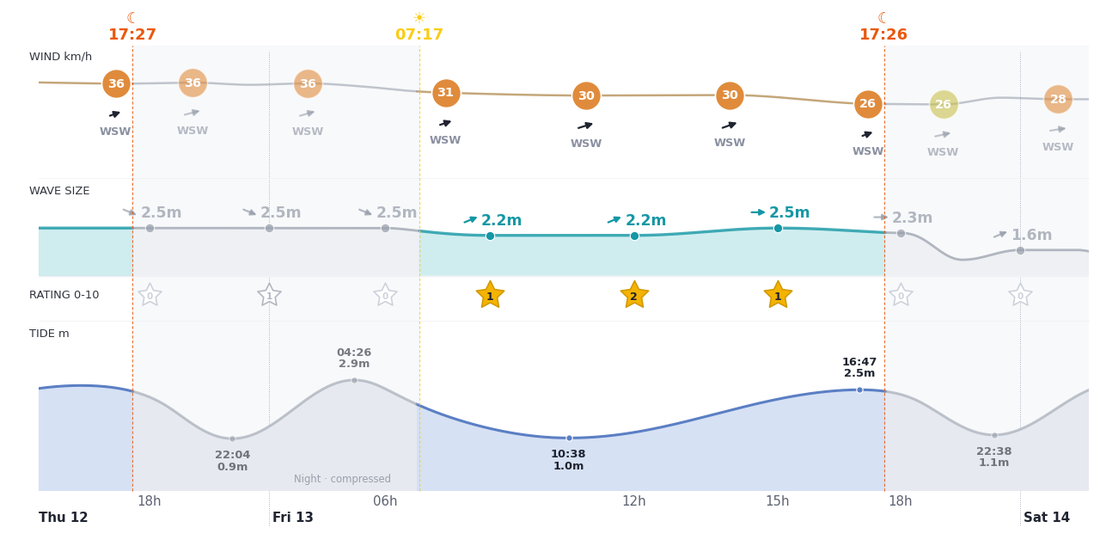
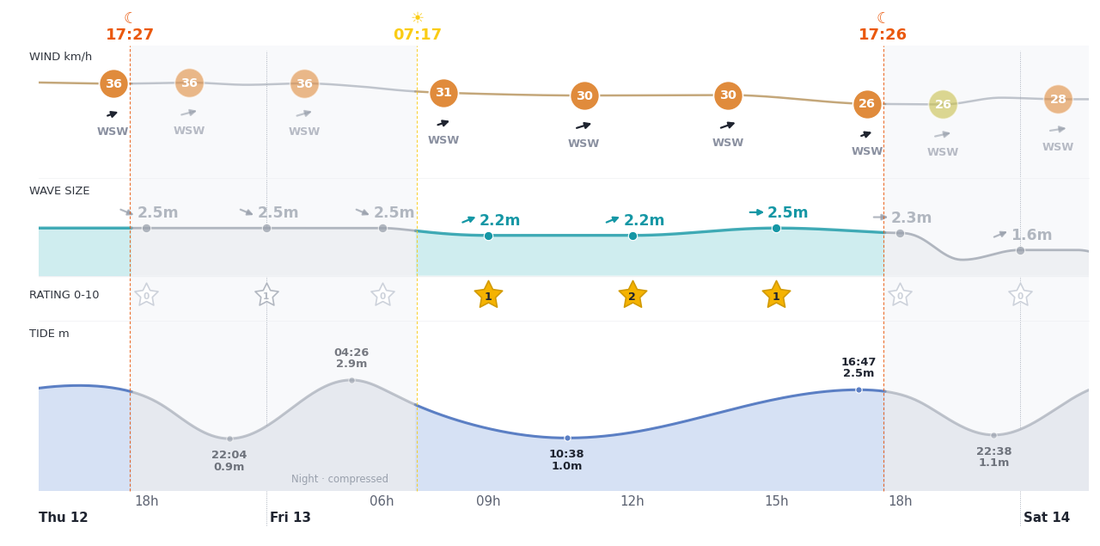
erisurf: run 381

diff --git a/index.html b/index.html
@@ -534,7 +534,7 @@ function draw(){var n=Date.now();cards(n);if(r.open)tide(n)}
 draw();setInterval(draw,60e3);r.addEventListener('toggle',draw);
 document.addEventListener('visibilitychange',function(){if(!document.hidden)draw()});
 if(window.ResizeObserver)new ResizeObserver(function(){if(r.open)draw()}).observe(o);
-})();</script><h2 class="livehd" id="conditions">Wind, tide &amp; surf forecast <span class="plan-fc">· Next 36h</span></h2><figure id="pic-conditions" class="c36"><div class="livechart" data-geo="{&quot;t0&quot;: 1794496633, &quot;t1&quot;: 1794627360, &quot;report&quot;: 1794502393, &quot;left&quot;: 0.035, &quot;right&quot;: 0.99, &quot;top&quot;: 0.085, &quot;bottom&quot;: 0.8993, &quot;suns&quot;: [1794504456, 1794554259, 1794590805], &quot;sunk&quot;: [&quot;set&quot;, &quot;rise&quot;, &quot;set&quot;], &quot;warp&quot;: [[1794496633, 0.0], [1794496633, 0.0], [1794497533, 0.01139], [1794498433, 0.0227], [1794499333, 0.03385], [1794500233, 0.04474], [1794501133, 0.05528], [1794502033, 0.06535], [1794502933, 0.07487], [1794503833, 0.08376], [1794504733, 0.09197], [1794505633, 0.09951], [1794506533, 0.10639], [1794507433, 0.11266], [1794508333, 0.1184], [1794509233, 0.12372], [1794510133, 0.12871], [1794511033, 0.13347], [1794511933, 0.13811], [1794512833, 0.14269], [1794513733, 0.14726], [1794514633, 0.15183], [1794515533, 0.15639], [1794516433, 0.16096], [1794517333, 0.16553], [1794518233, 0.17009], [1794519133, 0.17466], [1794520033, 0.17922], [1794520933, 0.18379], [1794521833, 0.18836], [1794522733, 0.19292], [1794523633, 0.19749], [1794524533, 0.20205], [1794525433, 0.20662], [1794526333, 0.21119], [1794527233, 0.21575], [1794528133, 0.22032], [1794529033, 0.22489], [1794529933, 0.22945], [1794530833, 0.23402], [1794531733, 0.23858], [1794532633, 0.24315], [1794533533, 0.24772], [1794534433, 0.25228], [1794535333, 0.25685], [1794536233, 0.26141], [1794537133, 0.26598], [1794538033, 0.27055], [1794538933, 0.27511], [1794539833, 0.27968], [1794540733, 0.28425], [1794541633, 0.28881], [1794542533, 0.29338], [1794543433, 0.29794], [1794544333, 0.30251], [1794545233, 0.30708], [1794546133, 0.31164], [1794547033, 0.31622], [1794547933, 0.32086], [1794548833, 0.32563], [1794549733, 0.33062], [1794550633, 0.33593], [1794551533, 0.34168], [1794552433, 0.34795], [1794553333, 0.35483], [1794554233, 0.36236], [1794555133, 0.37058], [1794556033, 0.37947], [1794556933, 0.38899], [1794557833, 0.39906], [1794558733, 0.40959], [1794559633, 0.42049], [1794560533, 0.43164], [1794561433, 0.44295], [1794562333, 0.45434], [1794563233, 0.46575], [1794564133, 0.47717], [1794565033, 0.48858], [1794565933, 0.5], [1794566833, 0.51141], [1794567733, 0.52283], [1794568633, 0.53424], [1794569533, 0.54566], [1794570433, 0.55707], [1794571333, 0.56849], [1794572233, 0.5799], [1794573133, 0.59132], [1794574033, 0.60273], [1794574933, 0.61415], [1794575833, 0.62557], [1794576733, 0.63698], [1794577633, 0.6484], [1794578533, 0.65981], [1794579433, 0.67123], [1794580333, 0.68264], [1794581233, 0.69406], [1794582133, 0.70547], [1794583033, 0.71688], [1794583933, 0.72825], [1794584833, 0.73952], [1794585733, 0.75059], [1794586633, 0.76138], [1794587533, 0.77177], [1794588433, 0.78167], [1794589333, 0.79098], [1794590233, 0.79965], [1794591133, 0.80764], [1794592033, 0.81496], [1794592933, 0.82162], [1794593833, 0.82771], [1794594733, 0.8333], [1794595633, 0.83849], [1794596533, 0.8434], [1794597433, 0.84811], [1794598333, 0.85272], [1794599233, 0.8573], [1794600133, 0.86186], [1794601033, 0.86643], [1794601933, 0.871], [1794602833, 0.87556], [1794603733, 0.88013], [1794604633, 0.88469], [1794605533, 0.88926], [1794606433, 0.89383], [1794607333, 0.89839], [1794608233, 0.90296], [1794609133, 0.90753], [1794610033, 0.91209], [1794610933, 0.91666], [1794611833, 0.92122], [1794612733, 0.92579], [1794613633, 0.93036], [1794614533, 0.93492], [1794615433, 0.93949], [1794616333, 0.94405], [1794617233, 0.94862], [1794618133, 0.95319], [1794619033, 0.95775], [1794619933, 0.96232], [1794620833, 0.96689], [1794621733, 0.97145], [1794622633, 0.97602], [1794623533, 0.98058], [1794624433, 0.98515], [1794625333, 0.98972], [1794626233, 0.99428], [1794627133, 0.99885], [1794627360, 1.0]]}"><a href="img/381/conditions36.png" target="_blank" title="open full size"><img loading="lazy" src="img/381/conditions36.png" alt="wind, tide and forecast"></a><div class="nowline" hidden><span class="nowlbl"></span></div><script>(function(){
+})();</script><h2 class="livehd" id="conditions">Wind, tide &amp; surf forecast <span class="plan-fc">· Next 36h</span></h2><figure id="pic-conditions" class="c36"><div class="livechart" data-geo="{&quot;t0&quot;: 1794496799, &quot;t1&quot;: 1794627360, &quot;report&quot;: 1794502559, &quot;left&quot;: 0.035, &quot;right&quot;: 0.99, &quot;top&quot;: 0.085, &quot;bottom&quot;: 0.8993, &quot;suns&quot;: [1794504456, 1794554259, 1794590805], &quot;sunk&quot;: [&quot;set&quot;, &quot;rise&quot;, &quot;set&quot;], &quot;warp&quot;: [[1794496799, 0.0], [1794496799, 0.0], [1794497699, 0.01138], [1794498599, 0.02265], [1794499499, 0.03374], [1794500399, 0.04454], [1794501299, 0.05494], [1794502199, 0.06484], [1794503099, 0.07416], [1794503999, 0.08284], [1794504899, 0.09084], [1794505799, 0.09816], [1794506699, 0.10483], [1794507599, 0.11092], [1794508499, 0.11651], [1794509399, 0.12171], [1794510299, 0.12662], [1794511199, 0.13134], [1794512099, 0.13596], [1794512999, 0.14053], [1794513899, 0.1451], [1794514799, 0.14967], [1794515699, 0.15424], [1794516599, 0.15881], [1794517499, 0.16338], [1794518399, 0.16795], [1794519299, 0.17252], [1794520199, 0.17709], [1794521099, 0.18166], [1794521999, 0.18623], [1794522899, 0.1908], [1794523799, 0.19537], [1794524699, 0.19994], [1794525599, 0.20451], [1794526499, 0.20908], [1794527399, 0.21365], [1794528299, 0.21822], [1794529199, 0.22279], [1794530099, 0.22736], [1794530999, 0.23193], [1794531899, 0.2365], [1794532799, 0.24107], [1794533699, 0.24564], [1794534599, 0.25021], [1794535499, 0.25478], [1794536399, 0.25935], [1794537299, 0.26392], [1794538199, 0.26849], [1794539099, 0.27306], [1794539999, 0.27763], [1794540899, 0.2822], [1794541799, 0.28677], [1794542699, 0.29134], [1794543599, 0.29591], [1794544499, 0.30048], [1794545399, 0.30505], [1794546299, 0.30963], [1794547199, 0.31422], [1794548099, 0.3189], [1794548999, 0.32374], [1794549899, 0.32883], [1794550799, 0.33428], [1794551699, 0.34019], [1794552599, 0.34666], [1794553499, 0.35376], [1794554399, 0.36153], [1794555299, 0.36998], [1794556199, 0.37909], [1794557099, 0.38881], [1794557999, 0.39906], [1794558899, 0.40973], [1794559799, 0.42074], [1794560699, 0.43196], [1794561599, 0.44331], [1794562499, 0.45472], [1794563399, 0.46615], [1794564299, 0.47757], [1794565199, 0.489], [1794566099, 0.50042], [1794566999, 0.51184], [1794567899, 0.52327], [1794568799, 0.53469], [1794569699, 0.54612], [1794570599, 0.55754], [1794571499, 0.56897], [1794572399, 0.58039], [1794573299, 0.59182], [1794574199, 0.60324], [1794575099, 0.61467], [1794575999, 0.62609], [1794576899, 0.63752], [1794577799, 0.64894], [1794578699, 0.66037], [1794579599, 0.67179], [1794580499, 0.68322], [1794581399, 0.69464], [1794582299, 0.70607], [1794583199, 0.71749], [1794584099, 0.72886], [1794584999, 0.74014], [1794585899, 0.75123], [1794586799, 0.76202], [1794587699, 0.77243], [1794588599, 0.78233], [1794589499, 0.79165], [1794590399, 0.80033], [1794591299, 0.80832], [1794592199, 0.81564], [1794593099, 0.82232], [1794593999, 0.82841], [1794594899, 0.834], [1794595799, 0.8392], [1794596699, 0.84411], [1794597599, 0.84883], [1794598499, 0.85344], [1794599399, 0.85802], [1794600299, 0.86259], [1794601199, 0.86716], [1794602099, 0.87173], [1794602999, 0.8763], [1794603899, 0.88087], [1794604799, 0.88544], [1794605699, 0.89001], [1794606599, 0.89458], [1794607499, 0.89915], [1794608399, 0.90372], [1794609299, 0.90829], [1794610199, 0.91286], [1794611099, 0.91743], [1794611999, 0.922], [1794612899, 0.92657], [1794613799, 0.93114], [1794614699, 0.93571], [1794615599, 0.94028], [1794616499, 0.94485], [1794617399, 0.94942], [1794618299, 0.95399], [1794619199, 0.95856], [1794620099, 0.96313], [1794620999, 0.9677], [1794621899, 0.97227], [1794622799, 0.97684], [1794623699, 0.98141], [1794624599, 0.98598], [1794625499, 0.99055], [1794626399, 0.99512], [1794627299, 0.99969], [1794627360, 1.0]]}"><a href="img/381/conditions36.png" target="_blank" title="open full size"><img loading="lazy" src="img/381/conditions36.png" alt="wind, tide and forecast"></a><div class="nowline" hidden><span class="nowlbl"></span></div><script>(function(){
 var box=document.currentScript.parentNode,g=JSON.parse(box.dataset.geo),
 line=box.querySelector('.nowline'),lbl=line.firstChild;
 // time -> fraction of the plot width; piecewise when the night is squeezed
@@ -573,7 +573,7 @@ function place(){
 place();setInterval(place,60000);
 // the 72h chart sits in a closed <details>: place the line when it opens
 var dd=box.closest('details');if(dd)dd.addEventListener('toggle',place);
-})();</script></div><details class="c72"><summary title="Show / hide the next 72h"><span class="c72-open">&gt;&gt;</span><span class="c72-close">&lt;&lt;</span></summary><div class="scroll72"><div class="livechart" data-geo="{&quot;t0&quot;: 1794496633, &quot;t1&quot;: 1794756960, &quot;report&quot;: 1794502393, &quot;left&quot;: 0.035, &quot;right&quot;: 0.99, &quot;top&quot;: 0.085, &quot;bottom&quot;: 0.8993, &quot;suns&quot;: [1794504456, 1794554259, 1794590805, 1794640727, 1794677156], &quot;sunk&quot;: [&quot;set&quot;, &quot;rise&quot;, &quot;set&quot;, &quot;rise&quot;, &quot;set&quot;], &quot;warp&quot;: [[1794496633, 0.0], [1794496633, 0.0], [1794497533, 0.00589], [1794498433, 0.01174], [1794499333, 0.0175], [1794500233, 0.02314], [1794501133, 0.02859], [1794502033, 0.03379], [1794502933, 0.03872], [1794503833, 0.04331], [1794504733, 0.04756], [1794505633, 0.05146], [1794506533, 0.05502], [1794507433, 0.05826], [1794508333, 0.06123], [1794509233, 0.06398], [1794510133, 0.06656], [1794511033, 0.06902], [1794511933, 0.07142], [1794512833, 0.07379], [1794513733, 0.07615], [1794514633, 0.07851], [1794515533, 0.08087], [1794516433, 0.08324], [1794517333, 0.0856], [1794518233, 0.08796], [1794519133, 0.09032], [1794520033, 0.09268], [1794520933, 0.09504], [1794521833, 0.0974], [1794522733, 0.09976], [1794523633, 0.10213], [1794524533, 0.10449], [1794525433, 0.10685], [1794526333, 0.10921], [1794527233, 0.11157], [1794528133, 0.11393], [1794529033, 0.11629], [1794529933, 0.11865], [1794530833, 0.12102], [1794531733, 0.12338], [1794532633, 0.12574], [1794533533, 0.1281], [1794534433, 0.13046], [1794535333, 0.13282], [1794536233, 0.13518], [1794537133, 0.13754], [1794538033, 0.13991], [1794538933, 0.14227], [1794539833, 0.14463], [1794540733, 0.14699], [1794541633, 0.14935], [1794542533, 0.15171], [1794543433, 0.15407], [1794544333, 0.15643], [1794545233, 0.1588], [1794546133, 0.16116], [1794547033, 0.16353], [1794547933, 0.16593], [1794548833, 0.16839], [1794549733, 0.17097], [1794550633, 0.17372], [1794551533, 0.17669], [1794552433, 0.17993], [1794553333, 0.18349], [1794554233, 0.18739], [1794555133, 0.19164], [1794556033, 0.19623], [1794556933, 0.20115], [1794557833, 0.20636], [1794558733, 0.21181], [1794559633, 0.21745], [1794560533, 0.22321], [1794561433, 0.22906], [1794562333, 0.23495], [1794563233, 0.24085], [1794564133, 0.24675], [1794565033, 0.25266], [1794565933, 0.25856], [1794566833, 0.26446], [1794567733, 0.27037], [1794568633, 0.27627], [1794569533, 0.28217], [1794570433, 0.28808], [1794571333, 0.29398], [1794572233, 0.29988], [1794573133, 0.30578], [1794574033, 0.31169], [1794574933, 0.31759], [1794575833, 0.32349], [1794576733, 0.3294], [1794577633, 0.3353], [1794578533, 0.3412], [1794579433, 0.34711], [1794580333, 0.35301], [1794581233, 0.35891], [1794582133, 0.36482], [1794583033, 0.37072], [1794583933, 0.37659], [1794584833, 0.38242], [1794585733, 0.38815], [1794586633, 0.39373], [1794587533, 0.3991], [1794588433, 0.40422], [1794589333, 0.40904], [1794590233, 0.41352], [1794591133, 0.41765], [1794592033, 0.42143], [1794592933, 0.42488], [1794593833, 0.42803], [1794594733, 0.43092], [1794595633, 0.4336], [1794596533, 0.43614], [1794597433, 0.43858], [1794598333, 0.44096], [1794599233, 0.44333], [1794600133, 0.44569], [1794601033, 0.44805], [1794601933, 0.45041], [1794602833, 0.45277], [1794603733, 0.45513], [1794604633, 0.4575], [1794605533, 0.45986], [1794606433, 0.46222], [1794607333, 0.46458], [1794608233, 0.46694], [1794609133, 0.4693], [1794610033, 0.47166], [1794610933, 0.47402], [1794611833, 0.47639], [1794612733, 0.47875], [1794613633, 0.48111], [1794614533, 0.48347], [1794615433, 0.48583], [1794616333, 0.48819], [1794617233, 0.49055], [1794618133, 0.49291], [1794619033, 0.49528], [1794619933, 0.49764], [1794620833, 0.5], [1794621733, 0.50236], [1794622633, 0.50472], [1794623533, 0.50708], [1794624433, 0.50944], [1794625333, 0.5118], [1794626233, 0.51417], [1794627133, 0.51653], [1794628033, 0.51889], [1794628933, 0.52125], [1794629833, 0.52361], [1794630733, 0.52597], [1794631633, 0.52833], [1794632533, 0.53069], [1794633433, 0.53306], [1794634333, 0.53546], [1794635233, 0.53793], [1794636133, 0.54051], [1794637033, 0.54326], [1794637933, 0.54623], [1794638833, 0.54947], [1794639733, 0.55303], [1794640633, 0.55692], [1794641533, 0.56117], [1794642433, 0.56577], [1794643333, 0.57069], [1794644233, 0.5759], [1794645133, 0.58135], [1794646033, 0.58698], [1794646933, 0.59275], [1794647833, 0.5986], [1794648733, 0.60449], [1794649633, 0.61039], [1794650533, 0.61629], [1794651433, 0.62219], [1794652333, 0.6281], [1794653233, 0.634], [1794654133, 0.6399], [1794655033, 0.64581], [1794655933, 0.65171], [1794656833, 0.65761], [1794657733, 0.66352], [1794658633, 0.66942], [1794659533, 0.67532], [1794660433, 0.68122], [1794661333, 0.68713], [1794662233, 0.69303], [1794663133, 0.69893], [1794664033, 0.70484], [1794664933, 0.71074], [1794665833, 0.71664], [1794666733, 0.72255], [1794667633, 0.72845], [1794668533, 0.73435], [1794669433, 0.74025], [1794670333, 0.74613], [1794671233, 0.75196], [1794672133, 0.75769], [1794673033, 0.76326], [1794673933, 0.76864], [1794674833, 0.77376], [1794675733, 0.77857], [1794676633, 0.78305], [1794677533, 0.78719], [1794678433, 0.79097], [1794679333, 0.79442], [1794680233, 0.79756], [1794681133, 0.80045], [1794682033, 0.80314], [1794682933, 0.80568], [1794683833, 0.80811], [1794684733, 0.8105], [1794685633, 0.81286], [1794686533, 0.81523], [1794687433, 0.81759], [1794688333, 0.81995], [1794689233, 0.82231], [1794690133, 0.82467], [1794691033, 0.82703], [1794691933, 0.82939], [1794692833, 0.83176], [1794693733, 0.83412], [1794694633, 0.83648], [1794695533, 0.83884], [1794696433, 0.8412], [1794697333, 0.84356], [1794698233, 0.84592], [1794699133, 0.84828], [1794700033, 0.85065], [1794700933, 0.85301], [1794701833, 0.85537], [1794702733, 0.85773], [1794703633, 0.86009], [1794704533, 0.86245], [1794705433, 0.86481], [1794706333, 0.86717], [1794707233, 0.86954], [1794708133, 0.8719], [1794709033, 0.87426], [1794709933, 0.87662], [1794710833, 0.87898], [1794711733, 0.88134], [1794712633, 0.8837], [1794713533, 0.88606], [1794714433, 0.88843], [1794715333, 0.89079], [1794716233, 0.89315], [1794717133, 0.89551], [1794718033, 0.89787], [1794718933, 0.90023], [1794719833, 0.90259], [1794720733, 0.90495], [1794721633, 0.90732], [1794722533, 0.90968], [1794723433, 0.91204], [1794724333, 0.9144], [1794725233, 0.91676], [1794726133, 0.91912], [1794727033, 0.92148], [1794727933, 0.92384], [1794728833, 0.92621], [1794729733, 0.92857], [1794730633, 0.93093], [1794731533, 0.93329], [1794732433, 0.93565], [1794733333, 0.93801], [1794734233, 0.94037], [1794735133, 0.94273], [1794736033, 0.9451], [1794736933, 0.94746], [1794737833, 0.94982], [1794738733, 0.95218], [1794739633, 0.95454], [1794740533, 0.9569], [1794741433, 0.95926], [1794742333, 0.96162], [1794743233, 0.96399], [1794744133, 0.96635], [1794745033, 0.96871], [1794745933, 0.97107], [1794746833, 0.97343], [1794747733, 0.97579], [1794748633, 0.97815], [1794749533, 0.98051], [1794750433, 0.98288], [1794751333, 0.98524], [1794752233, 0.9876], [1794753133, 0.98996], [1794754033, 0.99232], [1794754933, 0.99468], [1794755833, 0.99704], [1794756733, 0.9994], [1794756960, 1.0]], &quot;fs&quot;: 2}"><a href="img/381/conditions72.png" target="_blank" title="open full size"><img loading="lazy" src="img/381/conditions72.png" alt="wind, tide and forecast, 72h"></a><div class="nowline" hidden><span class="nowlbl"></span></div><script>(function(){
+})();</script></div><details class="c72"><summary title="Show / hide the next 72h"><span class="c72-open">&gt;&gt;</span><span class="c72-close">&lt;&lt;</span></summary><div class="scroll72"><div class="livechart" data-geo="{&quot;t0&quot;: 1794496799, &quot;t1&quot;: 1794756960, &quot;report&quot;: 1794502559, &quot;left&quot;: 0.0175, &quot;right&quot;: 0.995, &quot;top&quot;: 0.085, &quot;bottom&quot;: 0.8993, &quot;suns&quot;: [1794504456, 1794554259, 1794590805, 1794640727, 1794677156], &quot;sunk&quot;: [&quot;set&quot;, &quot;rise&quot;, &quot;set&quot;, &quot;rise&quot;, &quot;set&quot;], &quot;warp&quot;: [[1794496799, 0.0], [1794496799, 0.0], [1794497699, 0.00587], [1794498599, 0.0117], [1794499499, 0.01742], [1794500399, 0.02299], [1794501299, 0.02836], [1794502199, 0.03348], [1794503099, 0.03829], [1794503999, 0.04277], [1794504899, 0.0469], [1794505799, 0.05068], [1794506699, 0.05412], [1794507599, 0.05727], [1794508499, 0.06016], [1794509399, 0.06284], [1794510299, 0.06537], [1794511199, 0.06781], [1794512099, 0.07019], [1794512999, 0.07256], [1794513899, 0.07492], [1794514799, 0.07728], [1794515699, 0.07964], [1794516599, 0.082], [1794517499, 0.08436], [1794518399, 0.08672], [1794519299, 0.08907], [1794520199, 0.09143], [1794521099, 0.09379], [1794521999, 0.09615], [1794522899, 0.09851], [1794523799, 0.10087], [1794524699, 0.10323], [1794525599, 0.10559], [1794526499, 0.10795], [1794527399, 0.11031], [1794528299, 0.11267], [1794529199, 0.11503], [1794530099, 0.11739], [1794530999, 0.11975], [1794531899, 0.12211], [1794532799, 0.12447], [1794533699, 0.12683], [1794534599, 0.12919], [1794535499, 0.13155], [1794536399, 0.13391], [1794537299, 0.13626], [1794538199, 0.13862], [1794539099, 0.14098], [1794539999, 0.14334], [1794540899, 0.1457], [1794541799, 0.14806], [1794542699, 0.15042], [1794543599, 0.15278], [1794544499, 0.15514], [1794545399, 0.1575], [1794546299, 0.15986], [1794547199, 0.16224], [1794548099, 0.16465], [1794548999, 0.16715], [1794549899, 0.16977], [1794550799, 0.17259], [1794551699, 0.17564], [1794552599, 0.17898], [1794553499, 0.18265], [1794554399, 0.18666], [1794555299, 0.19102], [1794556199, 0.19573], [1794557099, 0.20074], [1794557999, 0.20603], [1794558899, 0.21155], [1794559799, 0.21723], [1794560699, 0.22302], [1794561599, 0.22888], [1794562499, 0.23477], [1794563399, 0.24067], [1794564299, 0.24657], [1794565199, 0.25247], [1794566099, 0.25837], [1794566999, 0.26427], [1794567899, 0.27017], [1794568799, 0.27606], [1794569699, 0.28196], [1794570599, 0.28786], [1794571499, 0.29376], [1794572399, 0.29966], [1794573299, 0.30556], [1794574199, 0.31146], [1794575099, 0.31736], [1794575999, 0.32325], [1794576899, 0.32915], [1794577799, 0.33505], [1794578699, 0.34095], [1794579599, 0.34685], [1794580499, 0.35275], [1794581399, 0.35865], [1794582299, 0.36455], [1794583199, 0.37044], [1794584099, 0.37632], [1794584999, 0.38214], [1794585899, 0.38786], [1794586799, 0.39344], [1794587699, 0.39881], [1794588599, 0.40392], [1794589499, 0.40873], [1794590399, 0.41321], [1794591299, 0.41734], [1794592199, 0.42112], [1794593099, 0.42456], [1794593999, 0.42771], [1794594899, 0.4306], [1794595799, 0.43328], [1794596699, 0.43582], [1794597599, 0.43825], [1794598499, 0.44064], [1794599399, 0.443], [1794600299, 0.44536], [1794601199, 0.44772], [1794602099, 0.45008], [1794602999, 0.45244], [1794603899, 0.4548], [1794604799, 0.45716], [1794605699, 0.45952], [1794606599, 0.46188], [1794607499, 0.46423], [1794608399, 0.46659], [1794609299, 0.46895], [1794610199, 0.47131], [1794611099, 0.47367], [1794611999, 0.47603], [1794612899, 0.47839], [1794613799, 0.48075], [1794614699, 0.48311], [1794615599, 0.48547], [1794616499, 0.48783], [1794617399, 0.49019], [1794618299, 0.49255], [1794619199, 0.49491], [1794620099, 0.49727], [1794620999, 0.49963], [1794621899, 0.50199], [1794622799, 0.50435], [1794623699, 0.50671], [1794624599, 0.50906], [1794625499, 0.51142], [1794626399, 0.51378], [1794627299, 0.51614], [1794628199, 0.5185], [1794629099, 0.52086], [1794629999, 0.52322], [1794630899, 0.52558], [1794631799, 0.52794], [1794632699, 0.5303], [1794633599, 0.53268], [1794634499, 0.53509], [1794635399, 0.53759], [1794636299, 0.54021], [1794637199, 0.54303], [1794638099, 0.54608], [1794638999, 0.54942], [1794639899, 0.55309], [1794640799, 0.5571], [1794641699, 0.56146], [1794642599, 0.56617], [1794643499, 0.57119], [1794644399, 0.57648], [1794645299, 0.58199], [1794646199, 0.58767], [1794647099, 0.59346], [1794647999, 0.59932], [1794648899, 0.60521], [1794649799, 0.61111], [1794650699, 0.61701], [1794651599, 0.62291], [1794652499, 0.62881], [1794653399, 0.63471], [1794654299, 0.64061], [1794655199, 0.64651], [1794656099, 0.6524], [1794656999, 0.6583], [1794657899, 0.6642], [1794658799, 0.6701], [1794659699, 0.676], [1794660599, 0.6819], [1794661499, 0.6878], [1794662399, 0.6937], [1794663299, 0.69959], [1794664199, 0.70549], [1794665099, 0.71139], [1794665999, 0.71729], [1794666899, 0.72319], [1794667799, 0.72909], [1794668699, 0.73499], [1794669599, 0.74088], [1794670499, 0.74676], [1794671399, 0.75258], [1794672299, 0.7583], [1794673199, 0.76388], [1794674099, 0.76925], [1794674999, 0.77436], [1794675899, 0.77917], [1794676799, 0.78365], [1794677699, 0.78778], [1794678599, 0.79156], [1794679499, 0.79501], [1794680399, 0.79815], [1794681299, 0.80104], [1794682199, 0.80372], [1794683099, 0.80626], [1794683999, 0.80869], [1794684899, 0.81108], [1794685799, 0.81344], [1794686699, 0.8158], [1794687599, 0.81816], [1794688499, 0.82052], [1794689399, 0.82288], [1794690299, 0.82524], [1794691199, 0.8276], [1794692099, 0.82996], [1794692999, 0.83232], [1794693899, 0.83468], [1794694799, 0.83703], [1794695699, 0.83939], [1794696599, 0.84175], [1794697499, 0.84411], [1794698399, 0.84647], [1794699299, 0.84883], [1794700199, 0.85119], [1794701099, 0.85355], [1794701999, 0.85591], [1794702899, 0.85827], [1794703799, 0.86063], [1794704699, 0.86299], [1794705599, 0.86535], [1794706499, 0.86771], [1794707399, 0.87007], [1794708299, 0.87243], [1794709199, 0.87479], [1794710099, 0.87715], [1794710999, 0.87951], [1794711899, 0.88187], [1794712799, 0.88422], [1794713699, 0.88658], [1794714599, 0.88894], [1794715499, 0.8913], [1794716399, 0.89366], [1794717299, 0.89602], [1794718199, 0.89838], [1794719099, 0.90074], [1794719999, 0.9031], [1794720899, 0.90546], [1794721799, 0.90782], [1794722699, 0.91018], [1794723599, 0.91254], [1794724499, 0.9149], [1794725399, 0.91726], [1794726299, 0.91962], [1794727199, 0.92198], [1794728099, 0.92434], [1794728999, 0.9267], [1794729899, 0.92906], [1794730799, 0.93141], [1794731699, 0.93377], [1794732599, 0.93613], [1794733499, 0.93849], [1794734399, 0.94085], [1794735299, 0.94321], [1794736199, 0.94557], [1794737099, 0.94793], [1794737999, 0.95029], [1794738899, 0.95265], [1794739799, 0.95501], [1794740699, 0.95737], [1794741599, 0.95973], [1794742499, 0.96209], [1794743399, 0.96445], [1794744299, 0.96681], [1794745199, 0.96917], [1794746099, 0.97153], [1794746999, 0.97389], [1794747899, 0.97625], [1794748799, 0.9786], [1794749699, 0.98096], [1794750599, 0.98332], [1794751499, 0.98568], [1794752399, 0.98804], [1794753299, 0.9904], [1794754199, 0.99276], [1794755099, 0.99512], [1794755999, 0.99748], [1794756899, 0.99984], [1794756960, 1.0]], &quot;fs&quot;: 2}"><a href="img/381/conditions72.png" target="_blank" title="open full size"><img loading="lazy" src="img/381/conditions72.png" alt="wind, tide and forecast, 72h"></a><div class="nowline" hidden><span class="nowlbl"></span></div><script>(function(){
 var box=document.currentScript.parentNode,g=JSON.parse(box.dataset.geo),
 line=box.querySelector('.nowline'),lbl=line.firstChild;
 // time -> fraction of the plot width; piecewise when the night is squeezed
